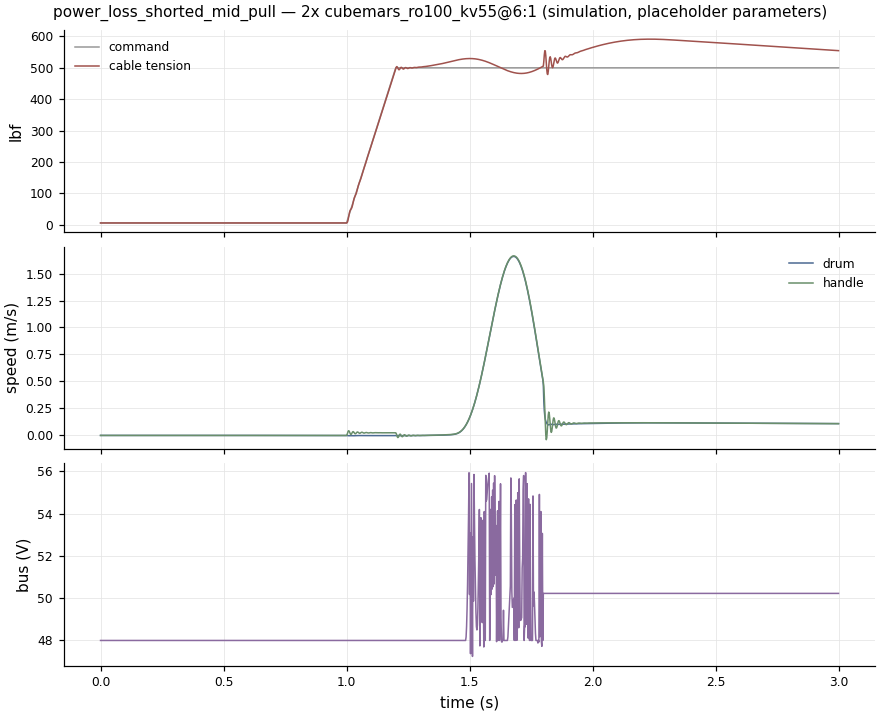
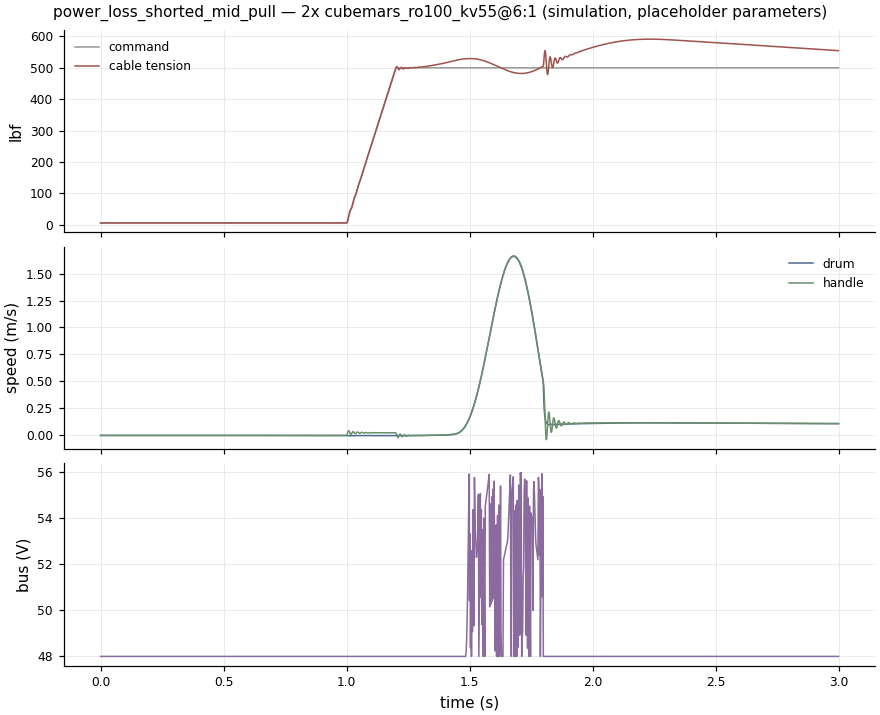
Dynamics: release detection, undervoltage lockout, 1 kW supply
Release detection (proposal, A-017) drops the command to rest tension
when tension collapses, which stops repeated end-stop snaps. The drive
now inhibits torque below 40 V, so supply limits show up as lost
torque instead of an unphysical 0 V bus.

diff --git a/src/odrt/dynamics.py b/src/odrt/dynamics.py
@@ -71,9 +71,13 @@ class DynParams:
     retract_gain: float
     disagreement_n: float
     disagreement_time_s: float
+    release_fraction: float
+    release_time_s: float
+    rest_tension_n: float
     bus_v: float
     bus_c: float
     supply_max_w: float
+    undervoltage_v: float
     overvoltage_v: float
     dump_on_v: float
     dump_r: float
@@ -100,8 +104,8 @@ def load_dynamics(path: Path, options: dict, scenarios: dict) -> DynParams:
     check_keys(k, f"{w}.controller", ["kp", "ki_per_s", "integral_limit_n", "friction_feedforward",
                                        "inertia_compensation", "accel_filter_s", "accel_clip_m_s2"])
     check_keys(sf, f"{w}.safety", ["max_retract_speed_m_s", "retract_speed_gain_n_per_m_s", "disagreement_n",
-                                   "disagreement_time_s"])
-    check_keys(b, f"{w}.bus", ["nominal_v", "capacitance_f", "supply_max_w", "overvoltage_v", "dump_on_v",
+                                   "disagreement_time_s", "release_fraction", "release_time_s", "rest_tension_n"])
+    check_keys(b, f"{w}.bus", ["nominal_v", "capacitance_f", "supply_max_w", "undervoltage_v", "overvoltage_v", "dump_on_v",
                                "dump_resistor_ohm"])
     pos = dict(minimum=0, exclusive_minimum=True)
     nonneg = dict(minimum=0)
@@ -160,16 +164,20 @@ def load_dynamics(path: Path, options: dict, scenarios: dict) -> DynParams:
                             **nonneg),
         disagreement_n=number(sf["disagreement_n"], f"{w}.safety.disagreement_n", **pos),
         disagreement_time_s=number(sf["disagreement_time_s"], f"{w}.safety.disagreement_time_s", **nonneg),
+        release_fraction=number(sf["release_fraction"], f"{w}.safety.release_fraction", minimum=0, maximum=1),
+        release_time_s=number(sf["release_time_s"], f"{w}.safety.release_time_s", **nonneg),
+        rest_tension_n=number(sf["rest_tension_n"], f"{w}.safety.rest_tension_n", **nonneg),
         bus_v=number(b["nominal_v"], f"{w}.bus.nominal_v", **pos),
         bus_c=number(b["capacitance_f"], f"{w}.bus.capacitance_f", **pos),
         supply_max_w=number(b["supply_max_w"], f"{w}.bus.supply_max_w", **pos),
+        undervoltage_v=number(b["undervoltage_v"], f"{w}.bus.undervoltage_v", **pos),
         overvoltage_v=number(b["overvoltage_v"], f"{w}.bus.overvoltage_v", **pos),
         dump_on_v=number(b["dump_on_v"], f"{w}.bus.dump_on_v", **pos),
         dump_r=number(b["dump_resistor_ohm"], f"{w}.bus.dump_resistor_ohm", **pos),
         cases=tuple(cases),
     )
-    if not p.bus_v < p.dump_on_v < p.overvoltage_v:
-        raise ConfigError(f"{w}.bus: need nominal_v < dump_on_v < overvoltage_v")
+    if not p.undervoltage_v < p.bus_v < p.dump_on_v < p.overvoltage_v:
+        raise ConfigError(f"{w}.bus: need undervoltage_v < nominal_v < dump_on_v < overvoltage_v")
     return p
 
 
@@ -230,6 +238,8 @@ def run(case: Case, traj: Trajectory, plant: Plant, p: DynParams) -> dict:
     e_bus = 0.5 * p.bus_c * p.bus_v**2
     hit_speed = None
     v_meas_prev = 0.0
+    release_latched = False
+    low_t = 0.0
     a_meas = 0.0
 
     F_hist = np.zeros(n)
@@ -266,6 +276,16 @@ def run(case: Case, traj: Trajectory, plant: Plant, p: DynParams) -> dict:
 
         # --- controller: drum force command
         target = f_cmd[i]
+        if case.safety:
+            if f_meas < p.release_fraction * target and target > 4 * p.rest_tension_n:
+                low_t += dt
+                if low_t >= p.release_time_s:
+                    release_latched = True
+            else:
+                low_t = 0.0
+            if release_latched:
+                target = p.rest_tension_n
+                integ = 0.0
         err = target - f_meas
         f_drive_cmd = target
         if not fallback:
@@ -289,6 +309,8 @@ def run(case: Case, traj: Trajectory, plant: Plant, p: DynParams) -> dict:
             else:
                 disagree_t = 0.0
         tau_cmd = min(max(f_drive_cmd / torque_to_force, -tau_max), tau_max)
+        if math.sqrt(2 * e_bus / p.bus_c) < p.undervoltage_v:
+            tau_cmd = 0.0  # drive undervoltage lockout
 
         # --- actuator
         if fault_on and case.fault == "power_loss_open" and i >= fault_idx:
@@ -361,6 +383,8 @@ def run(case: Case, traj: Trajectory, plant: Plant, p: DynParams) -> dict:
         "time_to_overvoltage_ms": (float((t[over_v[0]] - case.fault_time_s) * 1e3) if over_v.size else None),
         "torque_saturated_fraction": float(np.mean(np.abs(tau_hist) >= tau_max * 0.999)),
         "fell_back_to_feedforward": fallback,
+        "release_detected": release_latched,
+        "min_bus_v": float(np.min(vbus_hist)),
         "peak_hand_deviation_after_fault_m": (float(np.max(np.abs(xh_hist[after] - x_ref[after])))
                                               if fault_on and case.fault != "handle_release" else None),
         "tension_below_10pct_ms": _time_below(F_hist, f_cmd, after, t, case.fault_time_s) if fault_on else None,

diff --git a/src/odrt/reporting/__init__.py b/src/odrt/reporting/__init__.py
@@ -365,7 +365,9 @@ def _dynamics_md(inputs, payload) -> str:
               "", "Columns: tracking error is RMS tension error before any fault (after 1 s for fault-free "
               "cases), as % of the mean command. *Hand lurch* is the largest gap between the arm surrogate's "
               "hand and its planned path after the fault. *End-stop speed* is how fast a released handle "
-              f"hits the device. Overvoltage line {dp.overvoltage_v:g} V.", ""]
+              f"hits the device. Overvoltage line {dp.overvoltage_v:g} V; the drive locks out torque below "
+              f"{dp.undervoltage_v:g} V; the supply delivers at most {dp.supply_max_w:g} W and cannot absorb "
+              "regeneration.", ""]
     cols = [("peak_tension_lbf", "Peak tension lbf", ".0f"),
             ("tracking_rms_error_pct", "Tracking error %", ".1f"),
             ("peak_hand_deviation_after_fault_m", "Hand lurch m", ".2f"),
@@ -373,6 +375,8 @@ def _dynamics_md(inputs, payload) -> str:
             ("peak_retract_speed_m_s", "Peak retract m/s", ".1f"),
             ("peak_bus_v", "Peak bus V", ".0f"),
             ("time_to_overvoltage_ms", "To overvoltage ms", ".0f"),
+            ("min_bus_v", "Min bus V", ".0f"),
+            ("release_detected", "Release latched", ""),
             ("fell_back_to_feedforward", "Monitor tripped", "")]
     for design in dp.designs:
         lines += [f"## {design}", "", "| Case | Fault (at s) | Safety layer | " +

diff --git a/reports/dynamics.md b/reports/dynamics.md
@@ -2,43 +2,43 @@
 
 > Generated by `make report`. Do not edit by hand. These are abstract simulation inputs and idealised metrics, not certification, not proof of feasibility, and not exercise or human-use guidance.
 
-Input hash: `44fed2a5a8142994`
+Input hash: `147f1f6240e1d701`
 
 Time-domain model: stretchy cable that can go slack, drum with reflected inertia, gear efficiency, friction, a lagging current loop, delayed and noisy sensors, an arm surrogate, a tension controller (feedforward, slow PI, friction and inertia compensation) and the DC bus with a braking resistor. Every parameter is a placeholder (A-016), and every safety value is a proposal for review (A-017). **Simulation only. Nothing here validates a safety function.**
 
-Columns: tracking error is RMS tension error before any fault (after 1 s for fault-free cases), as % of the mean command. *Hand lurch* is the largest gap between the arm surrogate's hand and its planned path after the fault. *End-stop speed* is how fast a released handle hits the device. Overvoltage line 60 V.
+Columns: tracking error is RMS tension error before any fault (after 1 s for fault-free cases), as % of the mean command. *Hand lurch* is the largest gap between the arm surrogate's hand and its planned path after the fault. *End-stop speed* is how fast a released handle hits the device. Overvoltage line 60 V; the drive locks out torque below 40 V; the supply delivers at most 1000 W and cannot absorb regeneration.
 
 ## 2x cubemars_ro100_kv55@6:1
 
-| Case | Fault (at s) | Safety layer | Peak tension lbf | Tracking error % | Hand lurch m | End-stop speed m/s | Peak retract m/s | Peak bus V | To overvoltage ms | Monitor tripped |
-|---|---|---|---:|---:|---:|---:|---:|---:|---:|---:|
-| tracking_heavy_tempo | none | on | 530 | 2.1 | — | — | 0.7 | 56 | — | no |
-| tracking_low_force | none | on | 338 | 260.2 | — | — | 1.8 | 56 | — | no |
-| tracking_fast_reversal | none | on | 328 | 46.5 | — | — | 1.6 | 62 | 2407 | no |
-| release_at_500lbf | handle_release (2.6) | off | 16353 | 4.2 | — | 5.5 | 11.3 | 149 | 187 | no |
-| release_at_500lbf_speed_limit | handle_release (2.6) | on | 2819 | 4.2 | — | 5.5 | 5.5 | 56 | — | yes |
-| load_cell_stuck_zero | load_cell_zero (2.6) | off | 786 | 4.2 | 0.65 | — | 3.2 | 56 | — | no |
-| load_cell_stuck_zero_monitored | load_cell_zero (2.6) | on | 530 | 4.2 | 0.04 | — | 0.3 | 56 | — | yes |
-| power_loss_open_mid_pull | power_loss_open (1.8) | on | 530 | 4.7 | 1.15 | — | 0.3 | 56 | — | no |
-| power_loss_shorted_mid_pull | power_loss_shorted (1.8) | on | 591 | 4.7 | 0.20 | — | 0.0 | 56 | — | no |
-| regen_no_dump_resistor | no_dump_resistor (1.2) | on | 530 | 2.0 | 0.08 | — | 0.4 | 1072 | 302 | no |
-| regen_with_dump_resistor | none | on | 530 | 2.9 | — | — | 0.4 | 56 | — | no |
+| Case | Fault (at s) | Safety layer | Peak tension lbf | Tracking error % | Hand lurch m | End-stop speed m/s | Peak retract m/s | Peak bus V | To overvoltage ms | Min bus V | Release latched | Monitor tripped |
+|---|---|---|---:|---:|---:|---:|---:|---:|---:|---:|---:|---:|
+| tracking_heavy_tempo | none | on | 546 | 4.5 | — | — | 0.4 | 56 | — | 39 | no | no |
+| tracking_low_force | none | on | 338 | 287.6 | — | — | 1.8 | 56 | — | 40 | no | no |
+| tracking_fast_reversal | none | on | 325 | 46.2 | — | — | 1.5 | 58 | — | 38 | no | no |
+| release_at_500lbf | handle_release (2.6) | off | 4268 | 4.3 | — | 5.5 | 5.5 | 68 | 473 | 32 | no | no |
+| release_at_500lbf_speed_limit | handle_release (2.6) | on | 1261 | 4.3 | — | 5.5 | 5.5 | 56 | — | 38 | yes | no |
+| load_cell_stuck_zero | load_cell_zero (2.6) | off | 574 | 4.3 | 0.16 | — | 0.3 | 56 | — | 39 | no | no |
+| load_cell_stuck_zero_monitored | load_cell_zero (2.6) | on | 530 | 4.3 | 1.15 | — | 0.5 | 56 | — | 34 | yes | yes |
+| power_loss_open_mid_pull | power_loss_open (1.8) | on | 530 | 4.7 | 1.15 | — | 0.3 | 56 | — | 48 | yes | no |
+| power_loss_shorted_mid_pull | power_loss_shorted (1.8) | on | 591 | 4.7 | 0.20 | — | 0.0 | 56 | — | 48 | no | no |
+| regen_no_dump_resistor | no_dump_resistor (1.2) | on | 530 | 2.0 | 0.08 | — | 0.4 | 1072 | 302 | 48 | no | no |
+| regen_with_dump_resistor | none | on | 530 | 3.0 | — | — | 0.3 | 56 | — | 40 | no | no |
 
 ## 2x cubemars_ro100_kv55@8:1
 
-| Case | Fault (at s) | Safety layer | Peak tension lbf | Tracking error % | Hand lurch m | End-stop speed m/s | Peak retract m/s | Peak bus V | To overvoltage ms | Monitor tripped |
-|---|---|---|---:|---:|---:|---:|---:|---:|---:|---:|
-| tracking_heavy_tempo | none | on | 534 | 3.1 | — | — | 1.0 | 56 | — | no |
-| tracking_low_force | none | on | 224 | 233.8 | — | — | 1.8 | 56 | — | no |
-| tracking_fast_reversal | none | on | 335 | 61.3 | — | — | 2.0 | 74 | 1541 | no |
-| release_at_500lbf | handle_release (2.6) | off | 18096 | 5.5 | — | 5.4 | 9.5 | 162 | 222 | no |
-| release_at_500lbf_speed_limit | handle_release (2.6) | on | 3600 | 5.5 | — | 5.4 | 5.4 | 60 | 483 | yes |
-| load_cell_stuck_zero | load_cell_zero (2.6) | off | 799 | 5.5 | 0.67 | — | 2.8 | 56 | — | no |
-| load_cell_stuck_zero_monitored | load_cell_zero (2.6) | on | 534 | 5.5 | 0.03 | — | 0.1 | 56 | — | yes |
-| power_loss_open_mid_pull | power_loss_open (1.8) | on | 534 | 6.6 | 1.14 | — | 0.3 | 56 | — | no |
-| power_loss_shorted_mid_pull | power_loss_shorted (1.8) | on | 689 | 6.6 | 0.18 | — | 0.6 | 56 | — | yes |
-| regen_no_dump_resistor | no_dump_resistor (1.2) | on | 534 | 2.0 | 0.09 | — | 0.7 | 1109 | 302 | no |
-| regen_with_dump_resistor | none | on | 534 | 3.9 | — | — | 0.7 | 56 | — | no |
+| Case | Fault (at s) | Safety layer | Peak tension lbf | Tracking error % | Hand lurch m | End-stop speed m/s | Peak retract m/s | Peak bus V | To overvoltage ms | Min bus V | Release latched | Monitor tripped |
+|---|---|---|---:|---:|---:|---:|---:|---:|---:|---:|---:|---:|
+| tracking_heavy_tempo | none | on | 548 | 4.2 | — | — | 0.4 | 56 | — | 40 | no | no |
+| tracking_low_force | none | on | 364 | 264.8 | — | — | 2.2 | 56 | — | 40 | no | no |
+| tracking_fast_reversal | none | on | 256 | 87.1 | — | — | 2.0 | 60 | 1611 | 39 | yes | no |
+| release_at_500lbf | handle_release (2.6) | off | 4506 | 5.2 | — | 5.5 | 5.5 | 70 | 567 | 30 | no | no |
+| release_at_500lbf_speed_limit | handle_release (2.6) | on | 1612 | 5.2 | — | 5.5 | 5.5 | 56 | — | 38 | yes | yes |
+| load_cell_stuck_zero | load_cell_zero (2.6) | off | 597 | 5.2 | 0.21 | — | 0.3 | 56 | — | 39 | no | no |
+| load_cell_stuck_zero_monitored | load_cell_zero (2.6) | on | 534 | 5.2 | 1.14 | — | 0.4 | 56 | — | 35 | yes | yes |
+| power_loss_open_mid_pull | power_loss_open (1.8) | on | 534 | 6.6 | 1.14 | — | 0.3 | 56 | — | 48 | yes | no |
+| power_loss_shorted_mid_pull | power_loss_shorted (1.8) | on | 689 | 6.6 | 0.18 | — | 0.6 | 56 | — | 48 | no | yes |
+| regen_no_dump_resistor | no_dump_resistor (1.2) | on | 534 | 2.0 | 0.09 | — | 0.7 | 1109 | 302 | 48 | no | no |
+| regen_with_dump_resistor | none | on | 534 | 3.7 | — | — | 0.4 | 56 | — | 40 | no | no |
 
 Figures below are for `2x cubemars_ro100_kv55@6:1`.
 

diff --git a/reports/components.md b/reports/components.md
@@ -2,7 +2,7 @@
 
 > Generated by `make report`. Do not edit by hand. These are abstract simulation inputs and idealised metrics, not certification, not proof of feasibility, and not exercise or human-use guidance.
 
-Input hash: `44fed2a5a8142994`
+Input hash: `147f1f6240e1d701`
 
 Real parts with cited data (`data/components.csv`), each run through the WP2 drivetrain model on every scenario. Drum geometry is reused from `B_quasi_direct` (A-008). Gear efficiencies are placeholders: 0.95 for an external stage, 0.9 for an integrated one (A-013). Copper loss uses A-014. Blank source fields are shown as *not stated* and never estimated.
 

diff --git a/reports/thermal.md b/reports/thermal.md
@@ -2,7 +2,7 @@
 
 > Generated by `make report`. Do not edit by hand. These are abstract simulation inputs and idealised metrics, not certification, not proof of feasibility, and not exercise or human-use guidance.
 
-Input hash: `44fed2a5a8142994`
+Input hash: `147f1f6240e1d701`
 
 Two-node model (winding, housing) per motor, starting cold at 25 °C, limit 120 °C. Thermal resistance is backed out from each motor's rated continuous torque, and heat capacity comes from its mass (A-015). With natural convection only, every number here inherits the vendor's unstated rating conditions. Treat these as rough estimates, not limits.
 

diff --git a/reports/drivetrain_baseline.md b/reports/drivetrain_baseline.md
@@ -2,7 +2,7 @@
 
 > Generated by `make report`. Do not edit by hand. These are abstract simulation inputs and idealised metrics, not certification, not proof of feasibility, and not exercise or human-use guidance.
 
-Input hash: `44fed2a5a8142994`
+Input hash: `147f1f6240e1d701`
 
 What each **illustrative** architecture (A-008) would demand of a motor and power stage for each duty cycle. A rigid lumped model (A-009) with copper loss only (A-010), evaluated at 100 °C. Thermal figures are worst 60 s moving-window values (A-012). No motor is selected, so nothing here says any architecture is feasible.
 

diff --git a/reports/duty_cycles.md b/reports/duty_cycles.md
@@ -2,7 +2,7 @@
 
 > Generated by `make report`. Do not edit by hand. These are abstract simulation inputs and idealised metrics, not certification, not proof of feasibility, and not exercise or human-use guidance.
 
-Input hash: `44fed2a5a8142994`
+Input hash: `147f1f6240e1d701`
 
 Generated with odrt 0.1.0, Python 3.9.12, NumPy 1.26.4. Sample rate 1000 Hz, tension ramp 0.2 s, rest tension 5 lbf, under-tension threshold 6 lbf.
 

diff --git a/reports/traceability.md b/reports/traceability.md
@@ -2,7 +2,7 @@
 
 > Generated by `make report`. Do not edit by hand. These are abstract simulation inputs and idealised metrics, not certification, not proof of feasibility, and not exercise or human-use guidance.
 
-Input hash: `44fed2a5a8142994`
+Input hash: `147f1f6240e1d701`
 
 | ID | Requirement | Status | Scenarios | Assumptions |
 |---|---|---|---|---|

diff --git a/reports/assumptions.md b/reports/assumptions.md
@@ -2,7 +2,7 @@
 
 > Generated by `make report`. Do not edit by hand. These are abstract simulation inputs and idealised metrics, not certification, not proof of feasibility, and not exercise or human-use guidance.
 
-Input hash: `44fed2a5a8142994`
+Input hash: `147f1f6240e1d701`
 
 Source of truth: `requirements/assumptions.yaml`.
 
